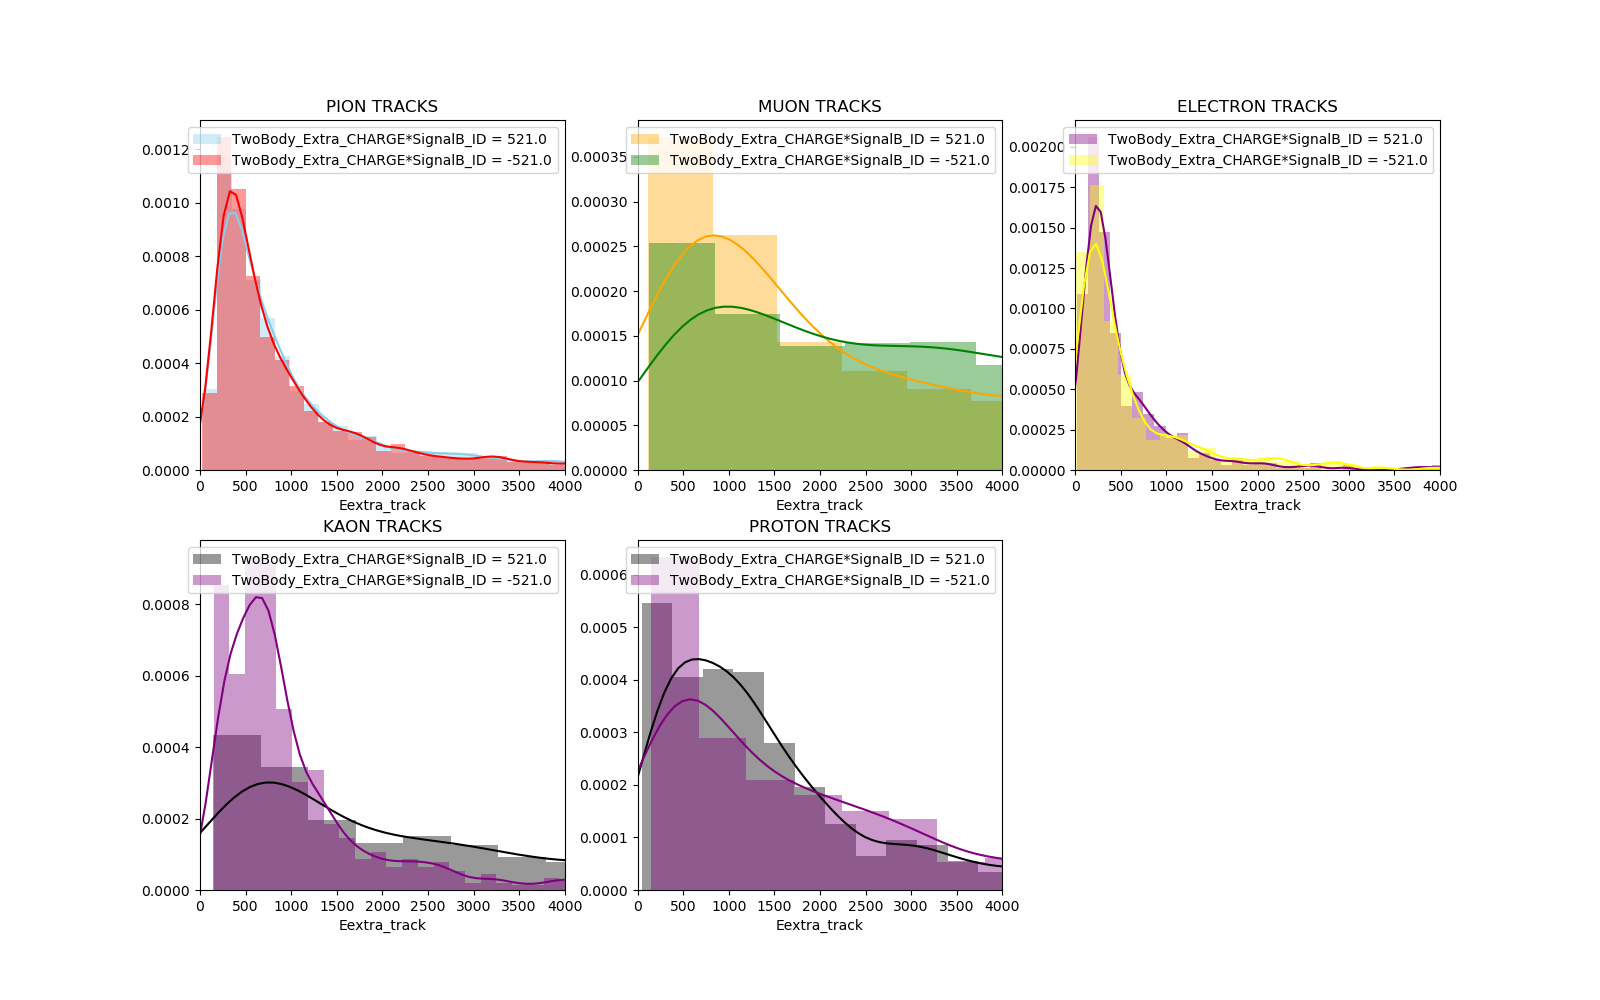
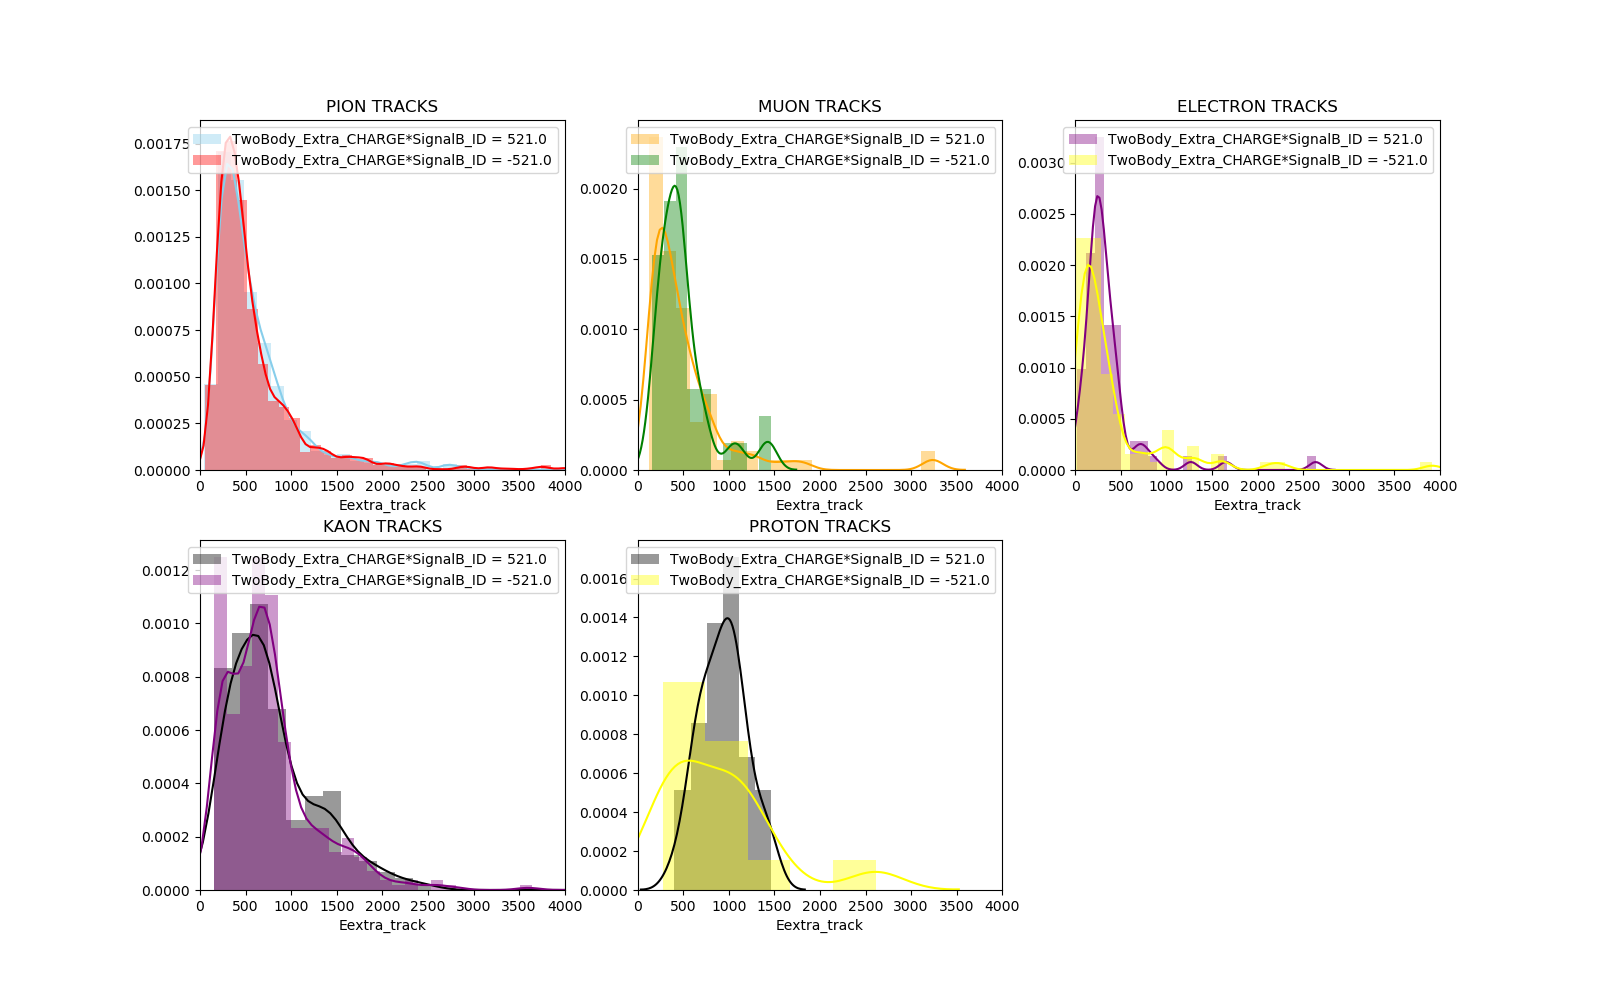
for lof ET graphes, I made it so TwoBody_Extra_FromSameB ==1 also

diff --git a/thetwobbtagger/lof.py b/thetwobbtagger/lof.py
@@ -145,7 +145,7 @@ cols2keep = ['SignalB_ID' , 'TwoBody_Extra_CHARGE', 'Eextra_track', 'TwoBody_Ext
 
 def chunk_processing(chunk_df):
     chunk_df.index = chunk_df.apply(lambda x: str(int(x.runNumber)) + str(int(x.eventNumber)) + '-' + str(int(x.nCandidate)), axis=1)
-    chunk_df = chunk_df.query('TwoBody_FromSameB==1')
+    chunk_df = chunk_df.query('TwoBody_FromSameB==1 & TwoBody_Extra_FromSameB==1')
     chunk_df = chunk_df.loc[:, cols2keep]
     chunk_df['TwoBody_Extra_CHARGE*SignalB_ID'] = chunk_df.apply(lambda x: x.TwoBody_Extra_CHARGE * x.SignalB_ID, axis=1)
     return chunk_df
